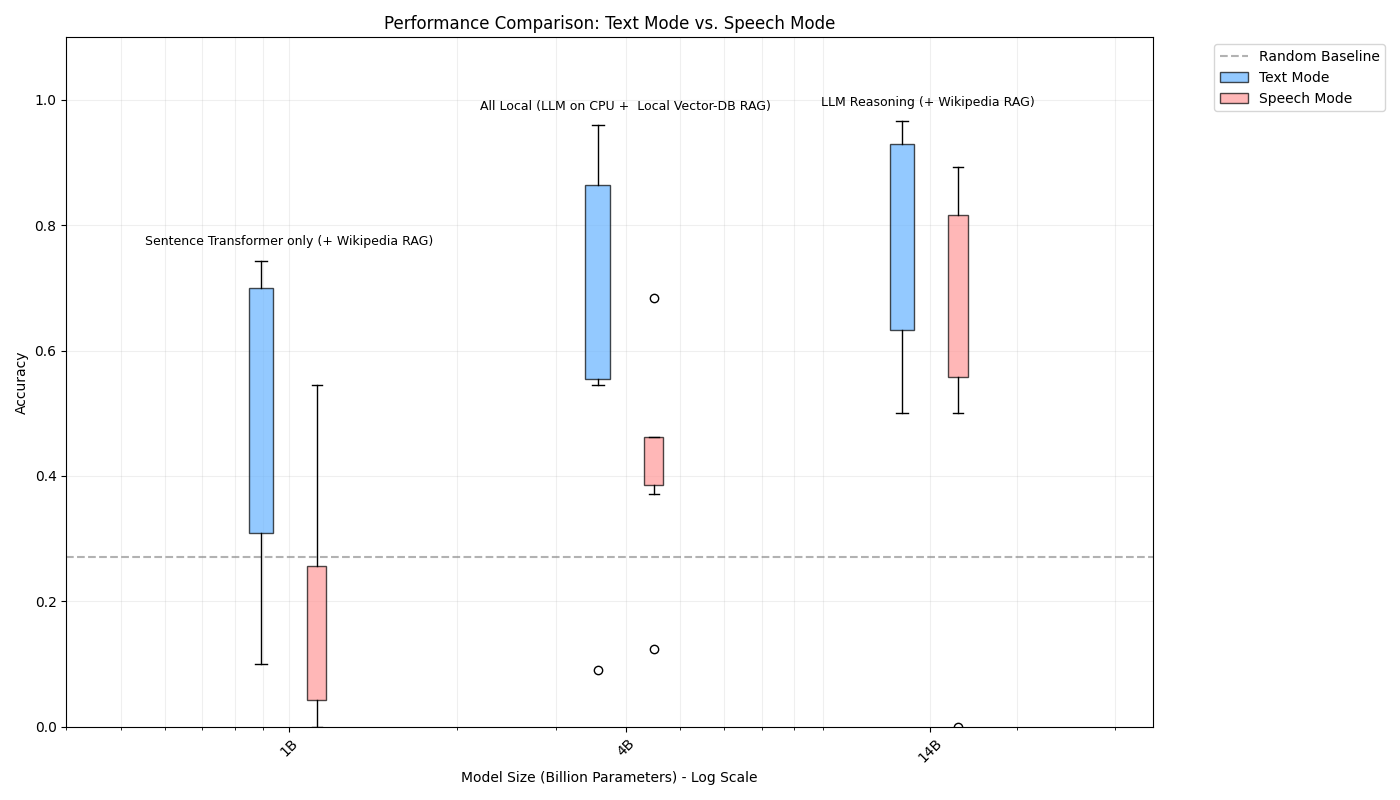
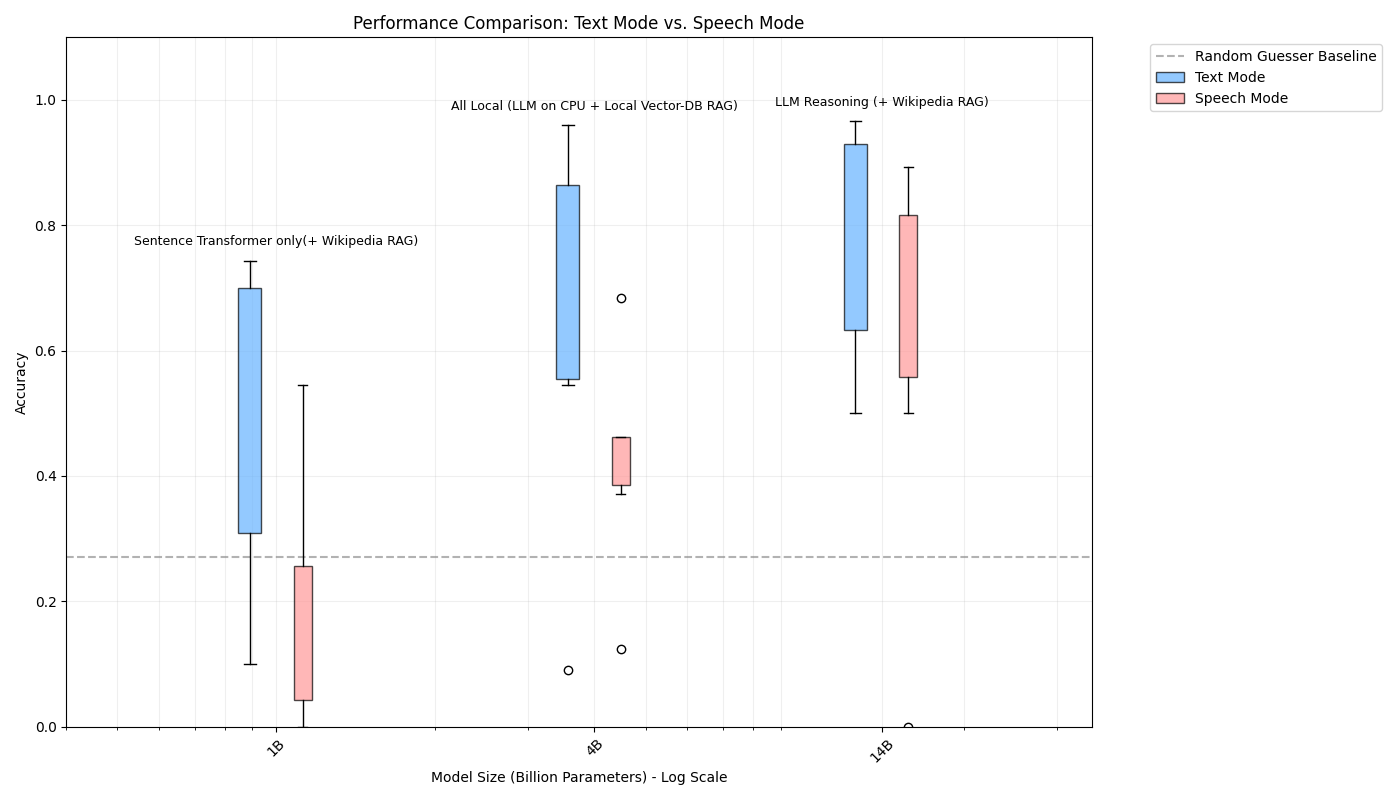
finish first version plots

diff --git a/plots/performance_plots.py b/plots/performance_plots.py
@@ -21,15 +21,15 @@ def extract_size(model_name):
 sheets_dir = "../plots/sheets/"
 # approach_name -> {text_file, speech_file, type}
 approaches_config = {
-    "Sentence Transformer only\n(+ Wikipedia RAG)": {
+    "Sentence Transformer only(+ Wikipedia RAG)": {
         "text": ("bi_cross_encoder_text.xlsx", "excel"),
         "speech": ("bi_cross_encoder_speech.xlsx", "excel")
     },
-    "LLM Reasoning (+ Wikipedia RAG)\n": {
+    "LLM Reasoning (+ Wikipedia RAG)": {
         "text": ("../Gianpaolo/gianpaolo_text_results.csv", "csv"),
         "speech": ("../Gianpaolo/gianpaolo_speech_results.csv", "csv")
     },
-    "All Local (LLM on CPU + \nLocal Vector-DB RAG)": {
+    "All Local (LLM on CPU + Local Vector-DB RAG)": {
         "combined": ("metrics_only.xlsx", "excel")
     }
 }
@@ -71,13 +71,23 @@ for approach_name, config in approaches_config.items():
         path = f"{sheets_dir}{filename}"
         df = pd.read_excel(path)
         
+        # Get canonical size from text mode
+        text_df = df[df['Mode'] == 'text']
+        base_size = None
+        if not text_df.empty:
+            best_text = text_df.loc[text_df['Accuracy'].idxmax()]
+            base_size = best_text.get('inference_model_size')
+            if pd.isna(base_size) or base_size is None:
+                base_size = extract_size(best_text.get('Inference Model'))
+        
         for mode in ["text", "speech"]:
             mode_df = df[df['Mode'] == mode]
             if not mode_df.empty:
                 acc_col = 'Accuracy'
                 best_row = mode_df.loc[mode_df[acc_col].idxmax()]
                 
-                size = best_row.get('inference_model_size')
+                # Use base_size if available, otherwise fallback to row size
+                size = base_size if base_size is not None else best_row.get('inference_model_size')
                 if pd.isna(size) or size is None:
                     size = extract_size(best_row.get('Inference Model'))
                 
@@ -91,7 +101,14 @@ for approach_name, config in approaches_config.items():
                     "category_results": category_results,
                     "total_time": best_row.get('Mean Time (s)'),
                     "search_time": best_row.get('Mean Search (s)'),
-                    "reasoning_time": best_row.get('Mean Reasoning (s)')
+                    "reasoning_time": best_row.get('Mean Reasoning (s)'),
+                    "transcription_time": best_row.get('Mean Transcription (s)'),
+                    "cat_times": {
+                        "total": [best_row[c] for c in ['Ent Time (s)', 'Sci Time (s)', 'Anc Time (s)', 'Math Time (s)', 'News Time (s)', 'Phil Time (s)'] if c in best_row and not pd.isna(best_row[c])],
+                        "search": [best_row[c] for c in ['Ent Search (s)', 'Sci Search (s)', 'Anc Search (s)', 'Math Search (s)', 'News Search (s)', 'Phil Search (s)'] if c in best_row and not pd.isna(best_row[c])],
+                        "reasoning": [best_row[c] for c in ['Ent Reason (s)', 'Sci Reason (s)', 'Anc Reason (s)', 'Math Reason (s)', 'News Reason (s)', 'Phil Reason (s)'] if c in best_row and not pd.isna(best_row[c])],
+                        "transcription": []
+                    }
                 }
     else:
         for mode in ["text", "speech"]:
@@ -102,17 +119,17 @@ for approach_name, config in approaches_config.items():
                     df.columns = df.columns.str.strip()
                 else:
                     df = pd.read_excel(f"{sheets_dir}{filename}" if not filename.startswith("..") else filename)
-                
+
                 acc_col = 'mean_question_accuracy'
                 if not df.empty:
                     best_row = df.loc[df[acc_col].idxmax()]
                     size = best_row.get('inference_model_size')
                     if pd.isna(size) or size is None:
                         size = extract_size(best_row.get('inference_model'))
-                    
+
                     valid_cols = [c for c in cat_cols_std if c in df.columns]
                     category_results = [(cat_label_map.get(c, c), best_row[c]) for c in valid_cols if not pd.isna(best_row[c])]
-                    
+
                     approach_results[mode] = {
                         "size": size,
                         "overall_acc": best_row[acc_col],
@@ -120,8 +137,16 @@ for approach_name, config in approaches_config.items():
                         "category_results": category_results,
                         "total_time": best_row.get('mean_time'),
                         "search_time": best_row.get('mean_search_time'),
-                        "reasoning_time": best_row.get('mean_reasoning_time')
+                        "reasoning_time": best_row.get('mean_reasoning_time'),
+                        "transcription_time": best_row.get('mean_transcription_time'),
+                        "cat_times": {
+                            "total": [best_row[c] for c in ['entertainment_mean_time', 'ancient_history_mean_time', 'science_nature_mean_time', 'maths_mean_time', 'news_mean_time', 'philosophy_psychology_mean_time'] if c in best_row and not pd.isna(best_row[c])],
+                            "search": [best_row[c] for c in ['entertainment_mean_search_time', 'ancient_history_mean_search_time', 'science_nature_mean_search_time', 'maths_mean_search_time', 'news_mean_search_time', 'philosophy_psychology_mean_search_time'] if c in best_row and not pd.isna(best_row[c])],
+                            "reasoning": [best_row[c] for c in ['entertainment_mean_reasoning_time', 'ancient_history_mean_reasoning_time', 'science_nature_mean_reasoning_time', 'maths_mean_reasoning_time', 'news_mean_reasoning_time', 'philosophy_psychology_mean_reasoning_time'] if c in best_row and not pd.isna(best_row[c])],
+                            "transcription": [best_row[c] for c in ['entertainment_mean_transcription_time', 'ancient_history_mean_transcription_time', 'science_nature_mean_transcription_time', 'maths_mean_transcription_time', 'news_mean_transcription_time', 'philosophy_psychology_mean_transcription_time'] if c in best_row and not pd.isna(best_row[c])]
+                        }
                     }
+
             except Exception as e:
                 print(f"Error processing {filename}: {e}")
 
@@ -138,20 +163,24 @@ random_baseline = df_random['mean_question_accuracy'].max()
 ticks = sorted(list(set([d["text"]["size"] for d in sorted_text_best_with_meta])))
 tick_labels = [f"{int(t)}B" for t in ticks]
 
+# Shared plotting parameters
+GROUP_OFFSET = 0.2 # Increased offset for better separation in log space
+
 # --- Plot 1: Box Plot (Original) ---
 fig1, ax1 = plt.subplots(figsize=(12, 7))
 ax1.set_xscale('log')
-ax1.axhline(y=random_baseline, color='grey', linestyle='--', alpha=0.6, label=f'Random Baseline\nMean Acc: {random_baseline:.3f}')
+ax1.axhline(y=random_baseline, color='grey', linestyle='--', alpha=0.6, label=f'Random Guesser Baseline\nMean Acc: {random_baseline:.3f}')
 
 for i, approach in enumerate(sorted_text_best_with_meta):
     item = approach["text"]
     pos = item['size']
     same_size_count = sum(1 for x in sorted_text_best_with_meta[:i] if x['text']['size'] == item['size'])
-    if same_size_count > 0:
-        pos = pos * (1 + 0.15 * same_size_count) 
+    # Center the FIRST model on the tick, and shift subsequent ones to the RIGHT
+    center_pos = np.log10(pos) + (same_size_count * GROUP_OFFSET)
+    pos_plot = 10**center_pos
 
-    width = 0.15 * pos 
-    bp = ax1.boxplot([item['category_accs']], positions=[pos], widths=width, patch_artist=True, medianprops={'visible': False})
+    width = 0.2 * pos_plot
+    bp = ax1.boxplot([item['category_accs']], positions=[pos_plot], widths=width, patch_artist=True, medianprops={'visible': False})
     color = plt.cm.viridis(i / len(sorted_text_best_with_meta))
     for patch in bp['boxes']:
         patch.set_facecolor(color)
@@ -165,7 +194,7 @@ ax1.grid(True, which="both", ls="-", alpha=0.3)
 ax1.set_ylim(0, 1.05)
 ax1.set_xticks(ticks)
 ax1.set_xticklabels(tick_labels, rotation=45)
-ax1.set_xlim(min(ticks) * 0.7, max(ticks) * 1.5)
+ax1.set_xlim(min(ticks) * 0.4, max(ticks) * 2.5)
 ax1.legend(title="Approaches", bbox_to_anchor=(1.05, 1), loc='upper left')
 plt.tight_layout()
 plt.savefig('performance_plot.png')
@@ -178,23 +207,23 @@ unique_categories = sorted(list(set(cat for item in sorted_text_best for cat, ac
 cat_colors = plt.cm.Set2(np.linspace(0, 1, len(unique_categories)))
 cat_color_map = {cat: color for cat, color in zip(unique_categories, cat_colors)}
 num_cats = len(unique_categories)
-log_width = 0.04 
+log_width_cat = 0.04 
 
 for i, approach in enumerate(sorted_text_best_with_meta):
     item = approach["text"]
     pos = item['size']
     same_size_count = sum(1 for x in sorted_text_best_with_meta[:i] if x['text']['size'] == item['size'])
-    center_pos = np.log10(pos) + (same_size_count * 0.4) 
-    start_pos = center_pos - (num_cats * log_width) / 2
+    center_pos = np.log10(pos) + (same_size_count * GROUP_OFFSET)
+    start_pos = center_pos - (num_cats * log_width_cat) / 2
     item_cats = {cat: acc for cat, acc in item['category_results']}
     for j, cat in enumerate(unique_categories):
         if cat in item_cats:
             acc = item_cats[cat]
-            bar_pos = 10**(start_pos + j * log_width + log_width/2)
+            bar_pos = 10**(start_pos + j * log_width_cat + log_width_cat/2)
             bar_width = bar_pos * 0.08 
             ax2.bar(bar_pos, acc, width=bar_width, color=cat_color_map[cat], label=cat if i == 0 else "") 
 
-    # Add approach label above/near the bars
+    # Add approach label dynamically above the bars
     ax2.text(10**center_pos, max(item['category_accs']) + 0.02,
              approach["name"].replace('\n', ' '), ha='center', va='bottom', fontsize=9)
 
@@ -205,7 +234,6 @@ ax2.grid(True, which="both", ls="-", alpha=0.2)
 ax2.set_ylim(0, 1.05)
 ax2.set_xticks(ticks)
 ax2.set_xticklabels(tick_labels, rotation=45)
-# Set consistent x-limits with more margin for labels
 ax2.set_xlim(min(ticks) * 0.4, max(ticks) * 2.5)
 handles, labels = ax2.get_legend_handles_labels()
 unique_handles_labels = {}
@@ -219,7 +247,7 @@ plt.savefig('category_performance_plot.png')
 # --- Plot 3: Text vs Speech Comparison ---
 fig3, ax3 = plt.subplots(figsize=(14, 8))
 ax3.set_xscale('log')
-ax3.axhline(y=random_baseline, color='grey', linestyle='--', alpha=0.6, label='Random Baseline')
+ax3.axhline(y=random_baseline, color='grey', linestyle='--', alpha=0.6, label='Random Guesser Baseline')
 
 for i, approach in enumerate(sorted_text_best_with_meta):
     if approach["text"] is None or approach["speech"] is None:
@@ -227,7 +255,7 @@ for i, approach in enumerate(sorted_text_best_with_meta):
     
     pos = approach["text"]["size"]
     same_size_count = sum(1 for x in sorted_text_best_with_meta[:i] if x['text']['size'] == pos)
-    center_pos = np.log10(pos) + (same_size_count * 0.4)
+    center_pos = np.log10(pos) + (same_size_count * GROUP_OFFSET)
     
     # Text Box
     text_pos = 10**(center_pos - 0.05)
@@ -247,20 +275,86 @@ for i, approach in enumerate(sorted_text_best_with_meta):
         if i == 0: patch.set_label('Speech Mode')
     
     # Add approach label above/near the boxes
-    ax3.text(10**center_pos, max(max(approach["text"]["category_accs"]), max(approach["speech"]["category_accs"])) + 0.02, 
+    max_acc = max(max(approach["text"]["category_accs"]), max(approach["speech"]["category_accs"]))
+    ax3.text(10**center_pos, max_acc + 0.02, 
              approach["name"].replace('\n', ' '), ha='center', va='bottom', fontsize=9)
 
 ax3.set_xlabel('Model Size (Billion Parameters) - Log Scale')
 ax3.set_ylabel('Accuracy')
-ax3.set_title('Performance Comparison: Text Mode vs. Speech Mode')
+ax3.set_title('Text Mode vs. Speech Mode - Performance Comparison')
 ax3.grid(True, which="both", ls="-", alpha=0.2)
 ax3.set_ylim(0, 1.1)
 ax3.set_xticks(ticks)
 ax3.set_xticklabels(tick_labels, rotation=45)
-# Set consistent x-limits with more margin for labels
 ax3.set_xlim(min(ticks) * 0.4, max(ticks) * 2.5)
 ax3.legend(loc='upper left', bbox_to_anchor=(1.05, 1))
 plt.tight_layout()
 plt.savefig('text_vs_speech_comparison.png')
 
-print("All 3 plots saved successfully.")
+# --- Plot 4: Timing Comparison ---
+fig4, ax4 = plt.subplots(figsize=(14, 8))
+ax4.set_xscale('log')
+ax4.axhline(y=30, color='red', linestyle='--', alpha=0.6, label='30s Time Limit')
+
+time_categories = ['transcription', 'search', 'reasoning', 'total']
+time_labels = ['Transcription', 'Search', 'Reasoning', 'Total Time']
+time_colors = ['#ffcc99', '#99ff99', '#99ccff', '#ff9999']
+num_time_cats = len(time_categories)
+log_width_time = 0.06
+
+for i, approach in enumerate(sorted_text_best_with_meta):
+    # Use speech mode for timing to show transcription if available
+    item = approach["speech"] if approach["speech"] is not None else approach["text"]
+    if item is None: continue
+    
+    pos = item['size']
+    same_size_count = sum(1 for x in sorted_text_best_with_meta[:i] if x['text']['size'] == item['size'])
+    # First model at size S is centered on S, subsequent ones shift right
+    center_pos = np.log10(pos) + (same_size_count * GROUP_OFFSET)
+    start_pos = center_pos - (num_time_cats * log_width_time) / 2
+    
+    max_h = 0
+    for j, cat in enumerate(time_categories):
+        mean_val = item.get(f"{cat}_time", 0)
+        if mean_val is None: mean_val = 0
+        
+        cat_vals = item.get("cat_times", {}).get(cat, [])
+        if cat_vals and len(cat_vals) > 0:
+            max_h = max(max_h, max(cat_vals))
+        else:
+            max_h = max(max_h, mean_val)
+        
+        bar_pos = 10**(start_pos + j * log_width_time + log_width_time/2)
+        bar_width = bar_pos * 0.1 # Restored original width (10% of position)
+        
+        ax4.bar(bar_pos, mean_val, width=bar_width, color=time_colors[j], label=time_labels[j] if i == 0 else "")
+        
+        if cat_vals and len(cat_vals) > 0:
+            ymin = min(cat_vals)
+            ymax = max(cat_vals)
+            ax4.errorbar(bar_pos, mean_val, yerr=[[max(0, mean_val - ymin)], [max(0, ymax - mean_val)]], 
+                         fmt='none', ecolor='black', capsize=3, alpha=0.3)
+
+    # Add approach label dynamically above the tallest bar/whisker
+    ax4.text(10**center_pos, max_h + 1, approach["name"].replace('\n', ' '), ha='center', va='bottom', fontsize=9)
+
+ax4.set_xlabel('Model Size (Billion Parameters) - Log Scale')
+ax4.set_ylabel('Time (seconds)')
+ax4.set_title('Inference Time Breakdown (speech mode)')
+ax4.grid(True, which="both", ls="-", alpha=0.2)
+ax4.set_ylim(0, 32) # Set y-lim to 32
+ax4.set_xticks(ticks)
+ax4.set_xticklabels(tick_labels, rotation=45)
+ax4.set_xlim(min(ticks) * 0.4, max(ticks) * 2.5)
+
+handles, labels = ax4.get_legend_handles_labels()
+unique_handles_labels = {}
+for h, l in zip(handles, labels):
+    if l not in unique_handles_labels:
+        unique_handles_labels[l] = h
+ax4.legend(unique_handles_labels.values(), unique_handles_labels.keys(), title="Time Categories", bbox_to_anchor=(1.05, 1), loc='upper left')
+
+plt.tight_layout()
+plt.savefig('timing_plot.png')
+
+print("All 4 plots saved successfully.")
